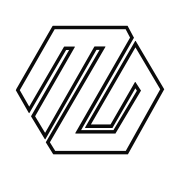
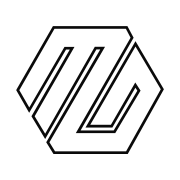
Значок — точно как знак логотипа, одинаковый для сайта и панели
По просьбе заказчика: без утолщения линий (утолщённый вариант сливал
двойные линии знака в сплошные полосы) и без отдельного кораллового
варианта для панели — везде чёрный знак на белом, как в образце.
На 16 px тонкие двойные линии выглядят светлее, чем на большом рисунке.

Ссылки на значки и манифест — с новой версией: Cloudflare держит в кеше
прежние файлы по старым адресам.

Changed region(s): [[0.0833, 0.1389, 0.9167, 0.8611]]

diff --git a/tools/make-favicon.php b/tools/make-favicon.php
@@ -6,10 +6,10 @@
    (M, L, H, l, h, z), два подконтура: внешний и внутренний, между ними
    тонкая полоса — отсюда «двойные линии» знака.
 
-   На 16 пикселях такая полоса тоньше пикселя и превращается в серую
-   дымку. Поэтому для вкладки браузера (16–48 px и SVG) полосу утолщаем
-   обводкой того же цвета, а для иконок телефона и закладок (180–512 px)
-   знак остаётся как в логотипе.
+   Значок — точно как знак в логотипе, на всех размерах и одинаковый
+   для сайта и панели: так попросил заказчик. На 16 пикселях тонкие
+   двойные линии выглядят светлее, чем на большом рисунке, — это цена
+   точности; утолщённый вариант сливал их в сплошные полосы.
 
    Растр — средствами GD: рисуем вдевятеро крупнее и уменьшаем с
    пересчётом, иначе края без сглаживания. */
@@ -138,15 +138,15 @@ function svg(string $D, array $BOX, float $extra, float $pad, string $bg, string
         . '<rect width="512" height="512" fill="' . $bg . '"/>'
         . '<path transform="translate(' . round($ox, 2) . ',' . round($oy, 2) . ') scale(' . round($k, 4) . ')"'
         . ' d="' . $D . '" fill="' . $fg . '" fill-rule="evenodd"'
-        . ' stroke="' . $fg . '" stroke-width="' . $extra . '" stroke-linejoin="round"/>'
+        . ($extra > 0 ? ' stroke="' . $fg . '" stroke-width="' . $extra . '" stroke-linejoin="round"' : '') . '/>'
         . '</svg>';
 }
 
 /* Утолщение и поля по размерам: чем мельче, тем толще полоса. */
-$PLAN = [16 => [4, .06], 32 => [5, .07], 48 => [5, .07], 180 => [1, .09], 192 => [1, .09], 512 => [0, .09]];
+$PLAN = [16 => [0, .05], 32 => [0, .06], 48 => [0, .07], 180 => [0, .09], 192 => [0, .09], 512 => [0, .09]];
 $THEMES = [
     'site'  => ['dir' => $ROOT . '/public',              'bg' => '#FFFFFF', 'fg' => '#0A0A0A'],
-    'admin' => ['dir' => $ROOT . '/public/admin/assets', 'bg' => '#0A0A0A', 'fg' => '#FF6B4A'],
+    'admin' => ['dir' => $ROOT . '/public/admin/assets', 'bg' => '#FFFFFF', 'fg' => '#0A0A0A'],
 ];
 
 foreach ($THEMES as $who => $th) {
@@ -157,7 +157,7 @@ foreach ($THEMES as $who => $th) {
         $r[$s] = png($im);
         imagedestroy($im);
     }
-    file_put_contents($th['dir'] . '/favicon.svg', svg($D, $BOX, 5, .07, $th['bg'], $th['fg']));
+    file_put_contents($th['dir'] . '/favicon.svg', svg($D, $BOX, 0, .06, $th['bg'], $th['fg']));
     file_put_contents($th['dir'] . '/favicon.ico', ico([16 => $r[16], 32 => $r[32], 48 => $r[48]]));
     file_put_contents($th['dir'] . '/apple-touch-icon.png', $r[180]);
     if ($who === 'site') {

diff --git a/app/partials/head.php b/app/partials/head.php
@@ -49,9 +49,9 @@ $cur = static fn(string $k) => $current === $k ? ' aria-current="page"' : '';
          Пути без языкового префикса: файлы одни на все языки.
          .ico браузер просит сам, но объявляем его явно — иначе при
          заданном svg часть браузеров за ним вообще не идёт. */ ?>
-<link rel="icon" href="/favicon.ico?v=2" sizes="32x32">
-<link rel="icon" href="/favicon.svg?v=2" type="image/svg+xml">
-<link rel="apple-touch-icon" href="/apple-touch-icon.png?v=2">
+<link rel="icon" href="/favicon.ico?v=3" sizes="32x32">
+<link rel="icon" href="/favicon.svg?v=3" type="image/svg+xml">
+<link rel="apple-touch-icon" href="/apple-touch-icon.png?v=3">
 <link rel="manifest" href="/site.webmanifest">
 <meta name="theme-color" content="#0A0A0A">
 

diff --git a/app/admin/layout.php b/app/admin/layout.php
@@ -20,9 +20,9 @@ function admin_assets(): void
 <link rel="preconnect" href="https://fonts.gstatic.com" crossorigin>
 <link href="https://fonts.googleapis.com/css2?family=Alumni+Sans:wght@600;700&family=Golos+Text:wght@400;500;600;700&display=swap" rel="stylesheet">
 <link rel="stylesheet" href="/admin/assets/admin.css?v=4">
-<link rel="icon" href="/admin/assets/favicon.ico?v=3" sizes="32x32">
-<link rel="icon" href="/admin/assets/favicon.svg?v=3" type="image/svg+xml">
-<link rel="apple-touch-icon" href="/admin/assets/apple-touch-icon.png?v=3">
+<link rel="icon" href="/admin/assets/favicon.ico?v=4" sizes="32x32">
+<link rel="icon" href="/admin/assets/favicon.svg?v=4" type="image/svg+xml">
+<link rel="apple-touch-icon" href="/admin/assets/apple-touch-icon.png?v=4">
 <meta name="theme-color" content="#0A0A0A">
     <?php
 }
